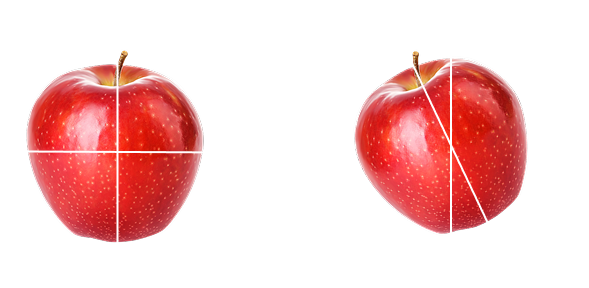
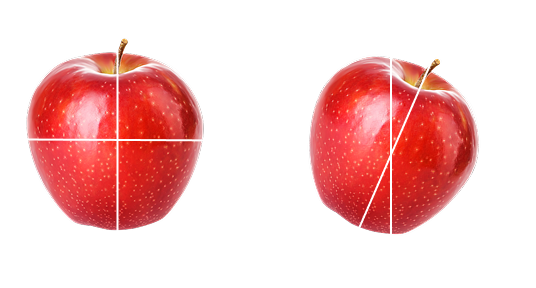
add new info to panel page and rewrote sections, add new images

Changed region(s): [[0.0299, 0.125, 0.3881, 0.8438], [0.5672, 0.1562, 0.8955, 0.8125]]

diff --git a/app/learn/topics/panel-tilt/page.tsx b/app/learn/topics/panel-tilt/page.tsx
@@ -1,19 +1,19 @@
 import ChapterCard from "../../components/ChapterCard"
 import Image from "next/image"
-import earthLng from "@/public/earth-lng.png"
+import earthLatLng from "@/public/longitude-latitude.png"
 import earthTilt from "@/public/earth-tilt.png"
 import apple from "@/public/apple.png"
-import appleTilted from "@/public/apple-tilted.png"
 import earthSunOrbit from "@/public/earth-sun-orbit.png"
 import sunsHeight from "@/public/sun-height.png"
-import sunsRays from "@/public/sun-rays.png"
+import sunsRays from "@/public/rays-on-earth.png"
 
 
 export default function PanelTilt() {
-    const chapters = ['Latitude and Longitude',
-        'The Earth',
-        'The Sun',
-        'Conclusion',]
+    const chapters = [
+        { title: 'Latitude and Longitude', id: "#section1" },
+        { title: 'The Earth', id: "#section2" },
+        { title: 'The Sun', id: "#section3" },
+        { title: 'Conclusion', id: "#section4" }];
     return (
         <div className="mt-12 space-y-8 mx-6 font-[Space_Grotesk] font-light">
             <h1 className="text-4xl text-center tracking-wide underline">
@@ -26,56 +26,50 @@ export default function PanelTilt() {
                     It’s the angle between the panel and the surface it’s mounted on.
                 </p>
             </article>
-            <section className="space-y-6">
+            <section id="section1" className="space-y-6">
                 <h2 className="text-2xl">
                     1. Latitude and Longitude
                 </h2>
                 <p>
                     Latitude measures position going north or south from the equator.
-                    The latitude of a location is it’s angle  with respect to the equatorial plane.
+                    Latitude is the angle between the line from the Earths centre to the point on it’s surface of the actual location, with respect to the equatorial plane.
                     Lines of latitude are referred to as parallels because they are parallel to the equator, and never intersect one another.
                 </p>
+                <Image src={earthLatLng} alt={"Lines of longitude on Earth"} />
                 <p>
-                    Longitude is a measurement of position going east or west.
-                    Lines of longitude are measured from the prime meridian, an imaginary line that goes through a point in Greenwich London England from the north to the south pole.
-                    Lines of longitude are called meridians, and they all intersect at the north and south pole, because they intersect these lines are not parallel and are drawn as curved lines on flat maps.
+                    Longitude is a measurement of position going east or west from the prime meridian, this is an imaginary line that goes through a point in Greenwich London England from the north to the south pole.
+                    Lines of longitude are called meridians, and they all intersect at the north and south pole.
+                    Since meridians intersect these lines are not parallel and are drawn as curved lines on flat maps.
                 </p>
-                <Image src={earthLng} alt={"Lines of longitude on Earth"} />
             </section>
-            <section className="space-y-6">
+            <section id="section2" className="space-y-6">
                 <h2 className="text-2xl">
                     2. The Earth
                 </h2>
                 <p>
-                    The Earth spins once around it’s axis every 24 hours giving us 24 hours days.
-                    The Earth’s axis is an imaginary line through its centre from the North to the South Pole that it rotates around.
-                    The equator is a imaginary line circling the Earth, located at the centre of the Earth.
-                    It divides the Earth into equal parts, the northern and southern hemisphere.
+                    The Earth spins around its axis, the Earth’s axis is an imaginary line through its centre from the North to the South Pole.
+                    The equator is an imaginary ring at the centre of the Earth that divides the Earth into equal parts, the northern and southern hemispheres.
                     The Earth’s axis and equator are perpendicular to each other.
-
                 </p>
                 <p>
                     The Earth’s axis of rotation is tilted relative to it’s path around the sun.
-                    The Earth tilts on its axis at an angle of 23.5 degrees relative to the plane of it’s orbit around the sun.
-                </p>
+                    The Earth tilts on its axis at an angle of -23.5 degrees relative to the plane of it’s orbit around the sun.                 </p>
                 <div className="flex justify-center">
                     <Image src={earthTilt} alt={"Earth's tilt relative to path around sun"} />
                 </div>
                 <p>
                     To understand this intuitively think of the Earth as an apple.
                 </p>
-                <div className="flex justify-evenly">
+                <div className="flex justify-center">
                     <Image src={apple} alt={"Apple with axis of rotation and equator"} />
                 </div>
                 <p>
                     Imagine the stem of the apple is the axis of rotation and the top and bottom of the apple are the north and south poles respectively.
-                    Tilting the apple so that it’s axis of rotation/stem is at an angle of 23.5 degrees changes the direction the north and southern halves of the apple points.
-                    In the image above the top half of the apple tilts toward the first apple and the bottom half is tilted away.
-                    The idea is the same with the Earth.
+                    Tilting the apple so that it’s axis of rotation/stem is at an angle of -23.5 degrees changes the direction the north and southern halves of the apple points.
                 </p>
                 <p>
-                    It’s important to know that the Earth’s tilt does not change for one of its halves to face the sun, what changes is the position of the Earth around the sun.
-                    In the image below the Earth tilts the same way, but depending on which side of the sun it is on determines whether the top or bottom half is directed toward or away from the sun.
+                    Earth’s tilt does not change, it remains constant, what changes is the position of the Earth around the sun.
+                    In the image below has the same Earth tilt, but depending on which side of the sun it is on determines whether the top or bottom half is directed toward or away from the sun.
                     During the months of Dec 21 to March 20 (winter in the northern hemisphere) the Earth is on part of it’s arc around the sun where the northern hemisphere is facing away from the sun and the southern hemisphere (summer in the southern hemisphere) is facing toward it.
                     During the months of June 20 to September 21 the Earth is on part of it’s arc where the northern hemisphere is facing the sun and the southern hemisphere is not.
                 </p>
@@ -83,45 +77,48 @@ export default function PanelTilt() {
                     <Image src={earthSunOrbit} alt={"Earth on it's orbit at the summer and winter solstice"} />
                 </div>
             </section>
-            <section className="space-y-6">
+            <section id="section3" className="space-y-6">
                 <h2 className="text-2xl">
                     3. The Sun
                 </h2>
                 <p>
-                    During summers in the northern hemisphere the Earth is on a part of it’s orbit around the sun where the north pole is directed towards the sun.
-                    When the north pole is toward the sun, the sun appears higher in the sky in the northern hemisphere because it’s directed more at the sun.
-                    The northern hemisphere is exposed to light with a angle of incidence closer to 90 degrees while in the southern hemisphere the light doesn’t hit directly and is more spread, the angle of incidence is more oblique and the sun appears lower in the sky.
-                    During spring and autumn the earth is on part of it’s arc where its parallel to the sun and the Earth’s tilt is in a different direction to the suns rays.
-                    Both hemispheres receive light at the same angle of incidence.
+                    During summers in the northern hemisphere the Earth is on a part of it’s orbit around the sun where the northern hemisphere leans towards the sun.
+                    The leaning towards the sun makes it appear higher in the sky in the northern hemisphere and lower in the sky in the southern hemisphere.
+                    The reason for this is the northern hemisphere is exposed to light with a angle of incidence closer to 90 degrees while in the southern hemisphere the light doesn’t hit directly and is more spread, the angle of incidence is more oblique and the sun appears lower in the sky.
                 </p>
                 <Image src={sunsHeight} alt="The suns height in the sky" />
                 <p>
                     The suns height\position in the sky is constantly changing.
                     The higher in the sky the sun is the more direct it’s light, more direct light is more intense because it’s energy is focused on a smaller area rather than spread out.
                     On the other hand if the sun is lower in the sky, it’s light is spread over a wider area and less intense.
-                    During summer the sun is higher in the sky, as a result the sunlight is more intense and the temperature is hotter.
-                    A higher sun also means a longer path over the sky, resulting in a longer day and again more heat.
+                    During summer the sun is higher in the sky, as a result the sunlight is more intense; a higher sun also means a longer path over the sky, resulting in a longer day.
                 </p>
             </section>
-            <section className="space-y-6">
+            <section id="section4" className="space-y-6">
                 <h2 className="text-2xl">
                     4. Conclusion
                 </h2>
                 <p>
                     The sun appears lower in the sky around winter so solar panels should be more vertical during winter to capture the most light from the low winter sun, and the panel should be more flat during summer to capture more of the higher summer sun.
-                    90 degree angles give more light and heat per unit area.
+                    Why then is it recommended to tilt solar panels at the angle of latitude?
                 </p>
                 <Image src={sunsRays} alt="The rays of the sun on the Earht" />
                 <p>
+                    The reason is because of spring and fall, the equinoxes.
                     If you are located at the equator the sun is directly overhead at the equinoxes because the plane of sun light is perfectly perpendicular to the equator at this time.
-                    The Earth is curved so the rays can’t be perfectly perpendicular to any other place like it is at the equator at that moment.
+                    The reason the sunlight is perfectly perpendicular to the equator at the equinoxes is because during spring and autumn the earth is on part of it’s arc where its tilt is not in the same direction as the rays of the sun, the Earth’s axis is perpendicular to the suns rays and both hemispheres receive light at the same angle of incidence.
+                    Because the Earth is not leaning toward the sun the rays strike the centre (the equator) directly.
+                </p>
+                <p>
+                    Due to the curvature of the Earth the rays can’t be perfectly perpendicular to any other place like it is at the equator at that moment.
                     If you move away from the equator your latitude, angle relative to the equator changes.
                     Tilting the panel towards the equator at an angle equal to the latitude cancels out the angle difference between the Earths surface at your location with respect to the equator.
                     The plane tangent to Earth’s surface/panel becomes parallel with the axis of rotation when it’s tilted towards the equator at the angle of latitude.
                 </p>
                 <p>
                     Where the suns light shines directly (at 90 degrees) on the Earth shifts between the tropic of cancer in the north and the tropic of Capricorn in the south.
-                    Since it goes between these two extremes the angle that does the best job at capturing the majority of this direct light is parallel to the equator because it’s the only line that the plane of sun light intersects more than once during its orbit around the sun.                </p>
+                    Since it goes between these two extremes the angle that does the best job at capturing the majority of this direct light is parallel to the equator because it’s the only line that the plane of sun light intersects more than once during its orbit around the sun.
+                </p>
             </section>
         </div>
     )

diff --git a/app/learn/components/ChapterCard.tsx b/app/learn/components/ChapterCard.tsx
@@ -1,12 +1,12 @@
 import React from "react"
-export default function ChapterCard({ topicChapters }: { topicChapters: string[] }) {
+export default function ChapterCard({ topicChapters }: { topicChapters: { title: string; id: string }[] }) {
     return (
         <div className="w-[280px] border-2 rounded-lg border-[#FF8D28] p-3 space-y-1">
             <h3 className="text-lg">Chapters</h3>
             <ol className="text-sm/7 list-decimal list-inside">
                 {
                     topicChapters.map((chapter, i) => {
-                        return <li key={i}>{chapter}</li>
+                        return <a href={chapter.id}><li key={i}>{chapter.title}</li></a>
                     })
                 }
             </ol>
